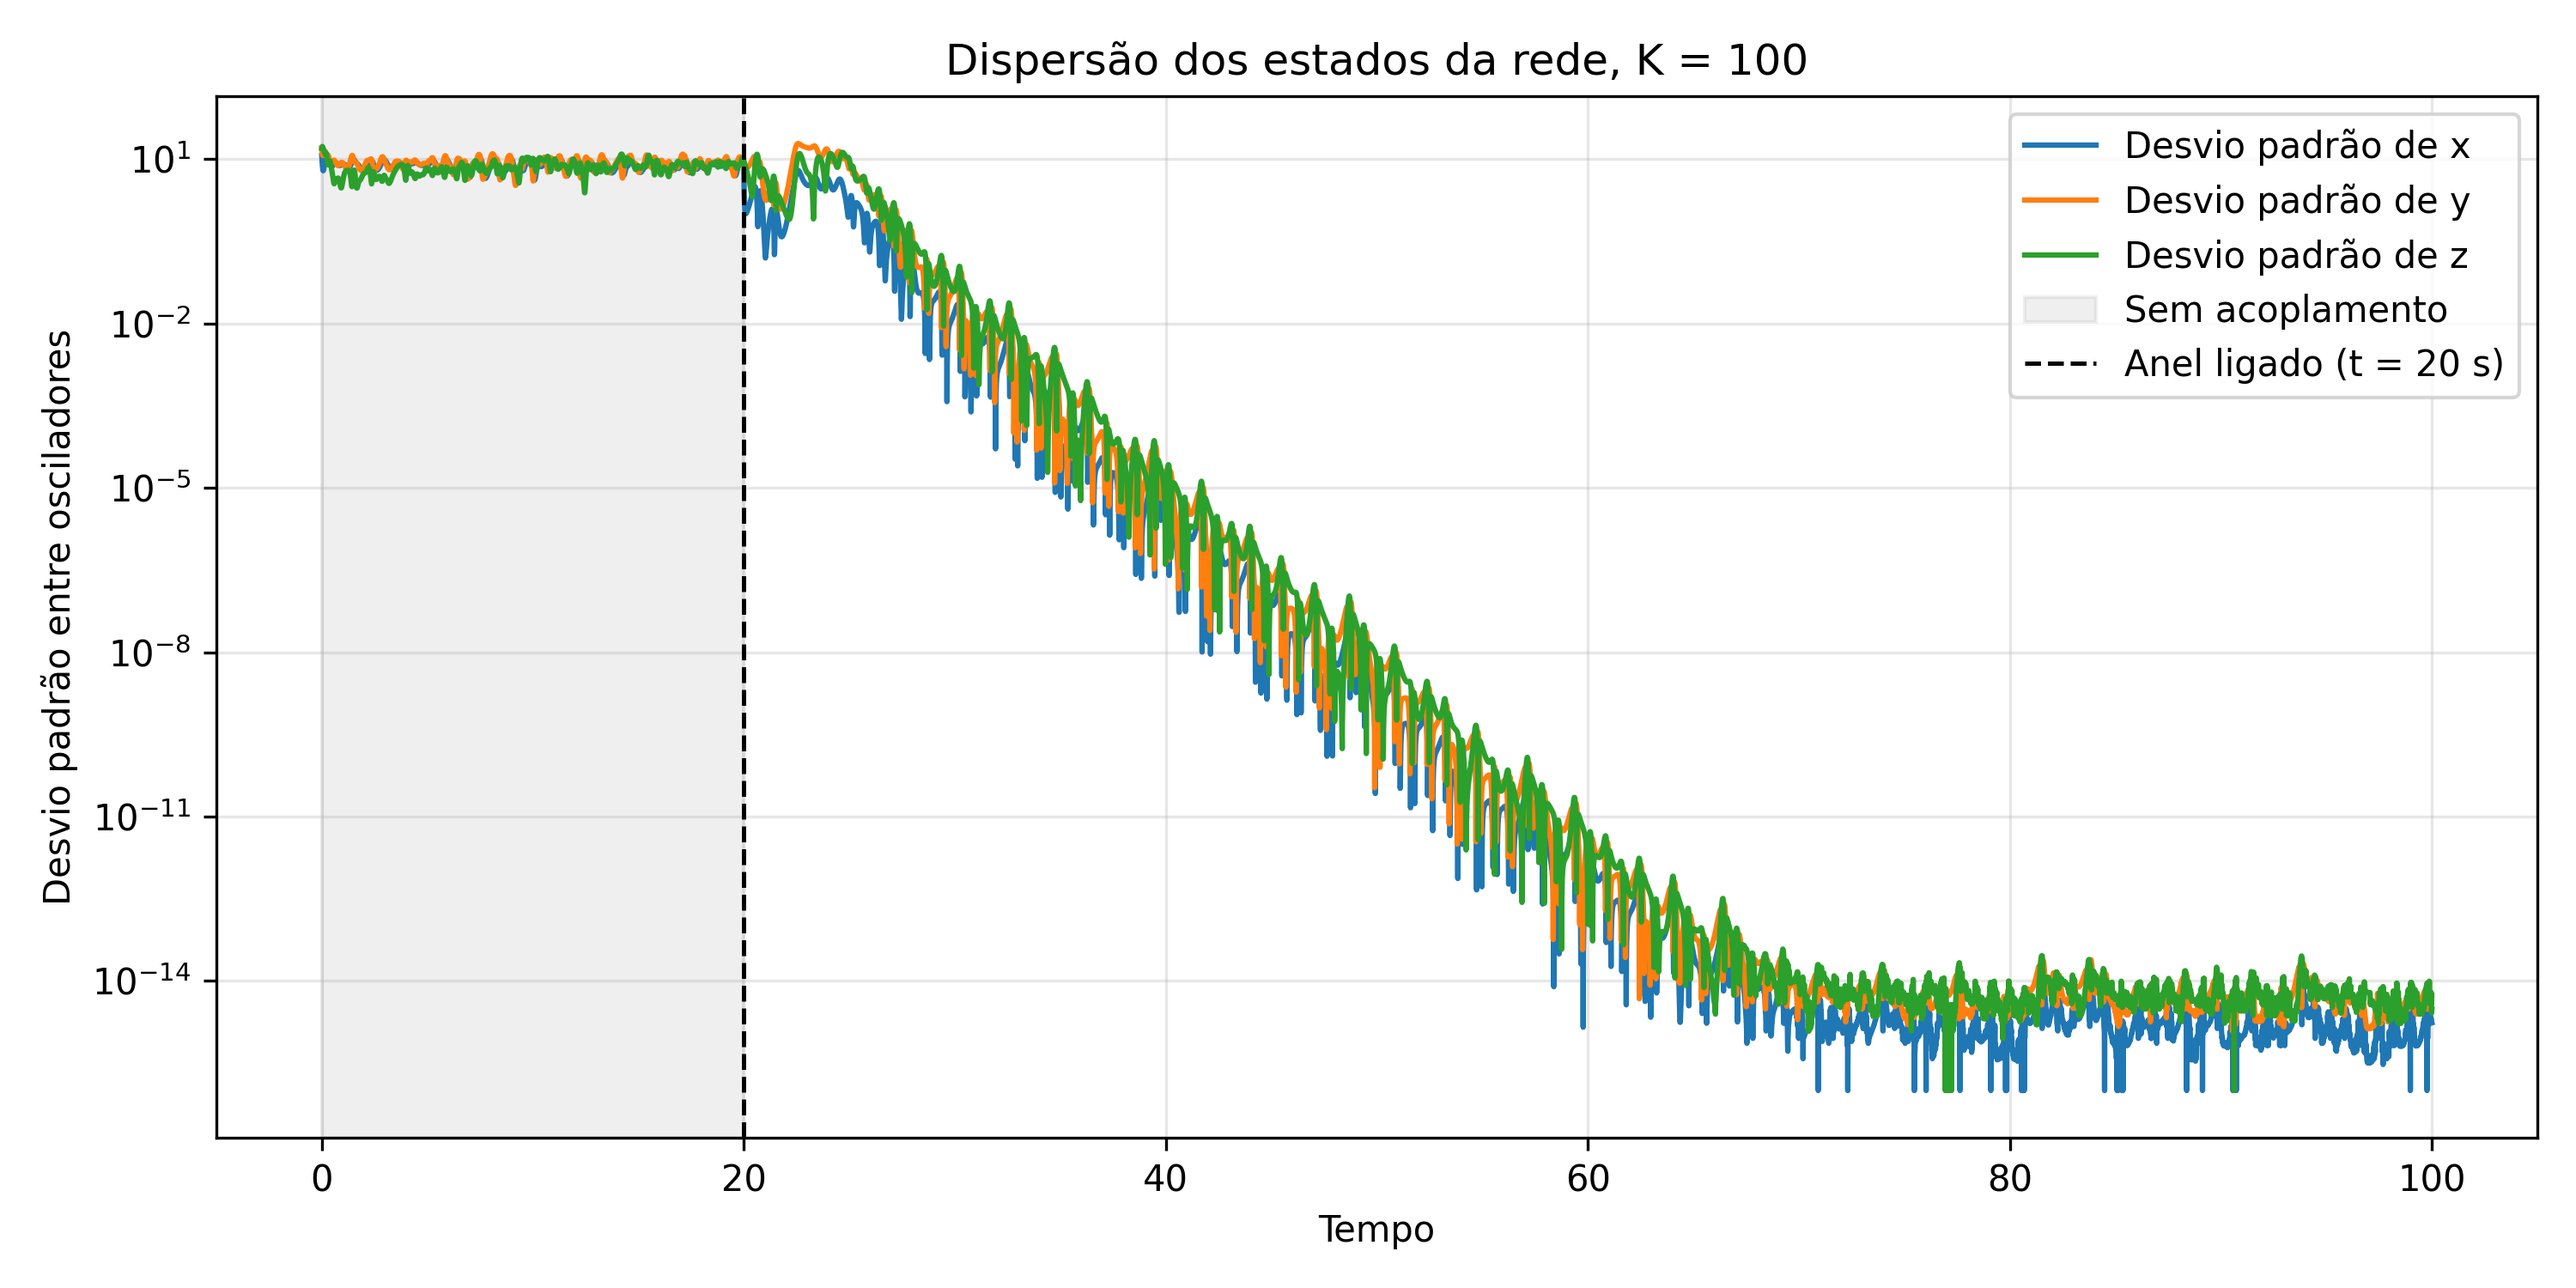
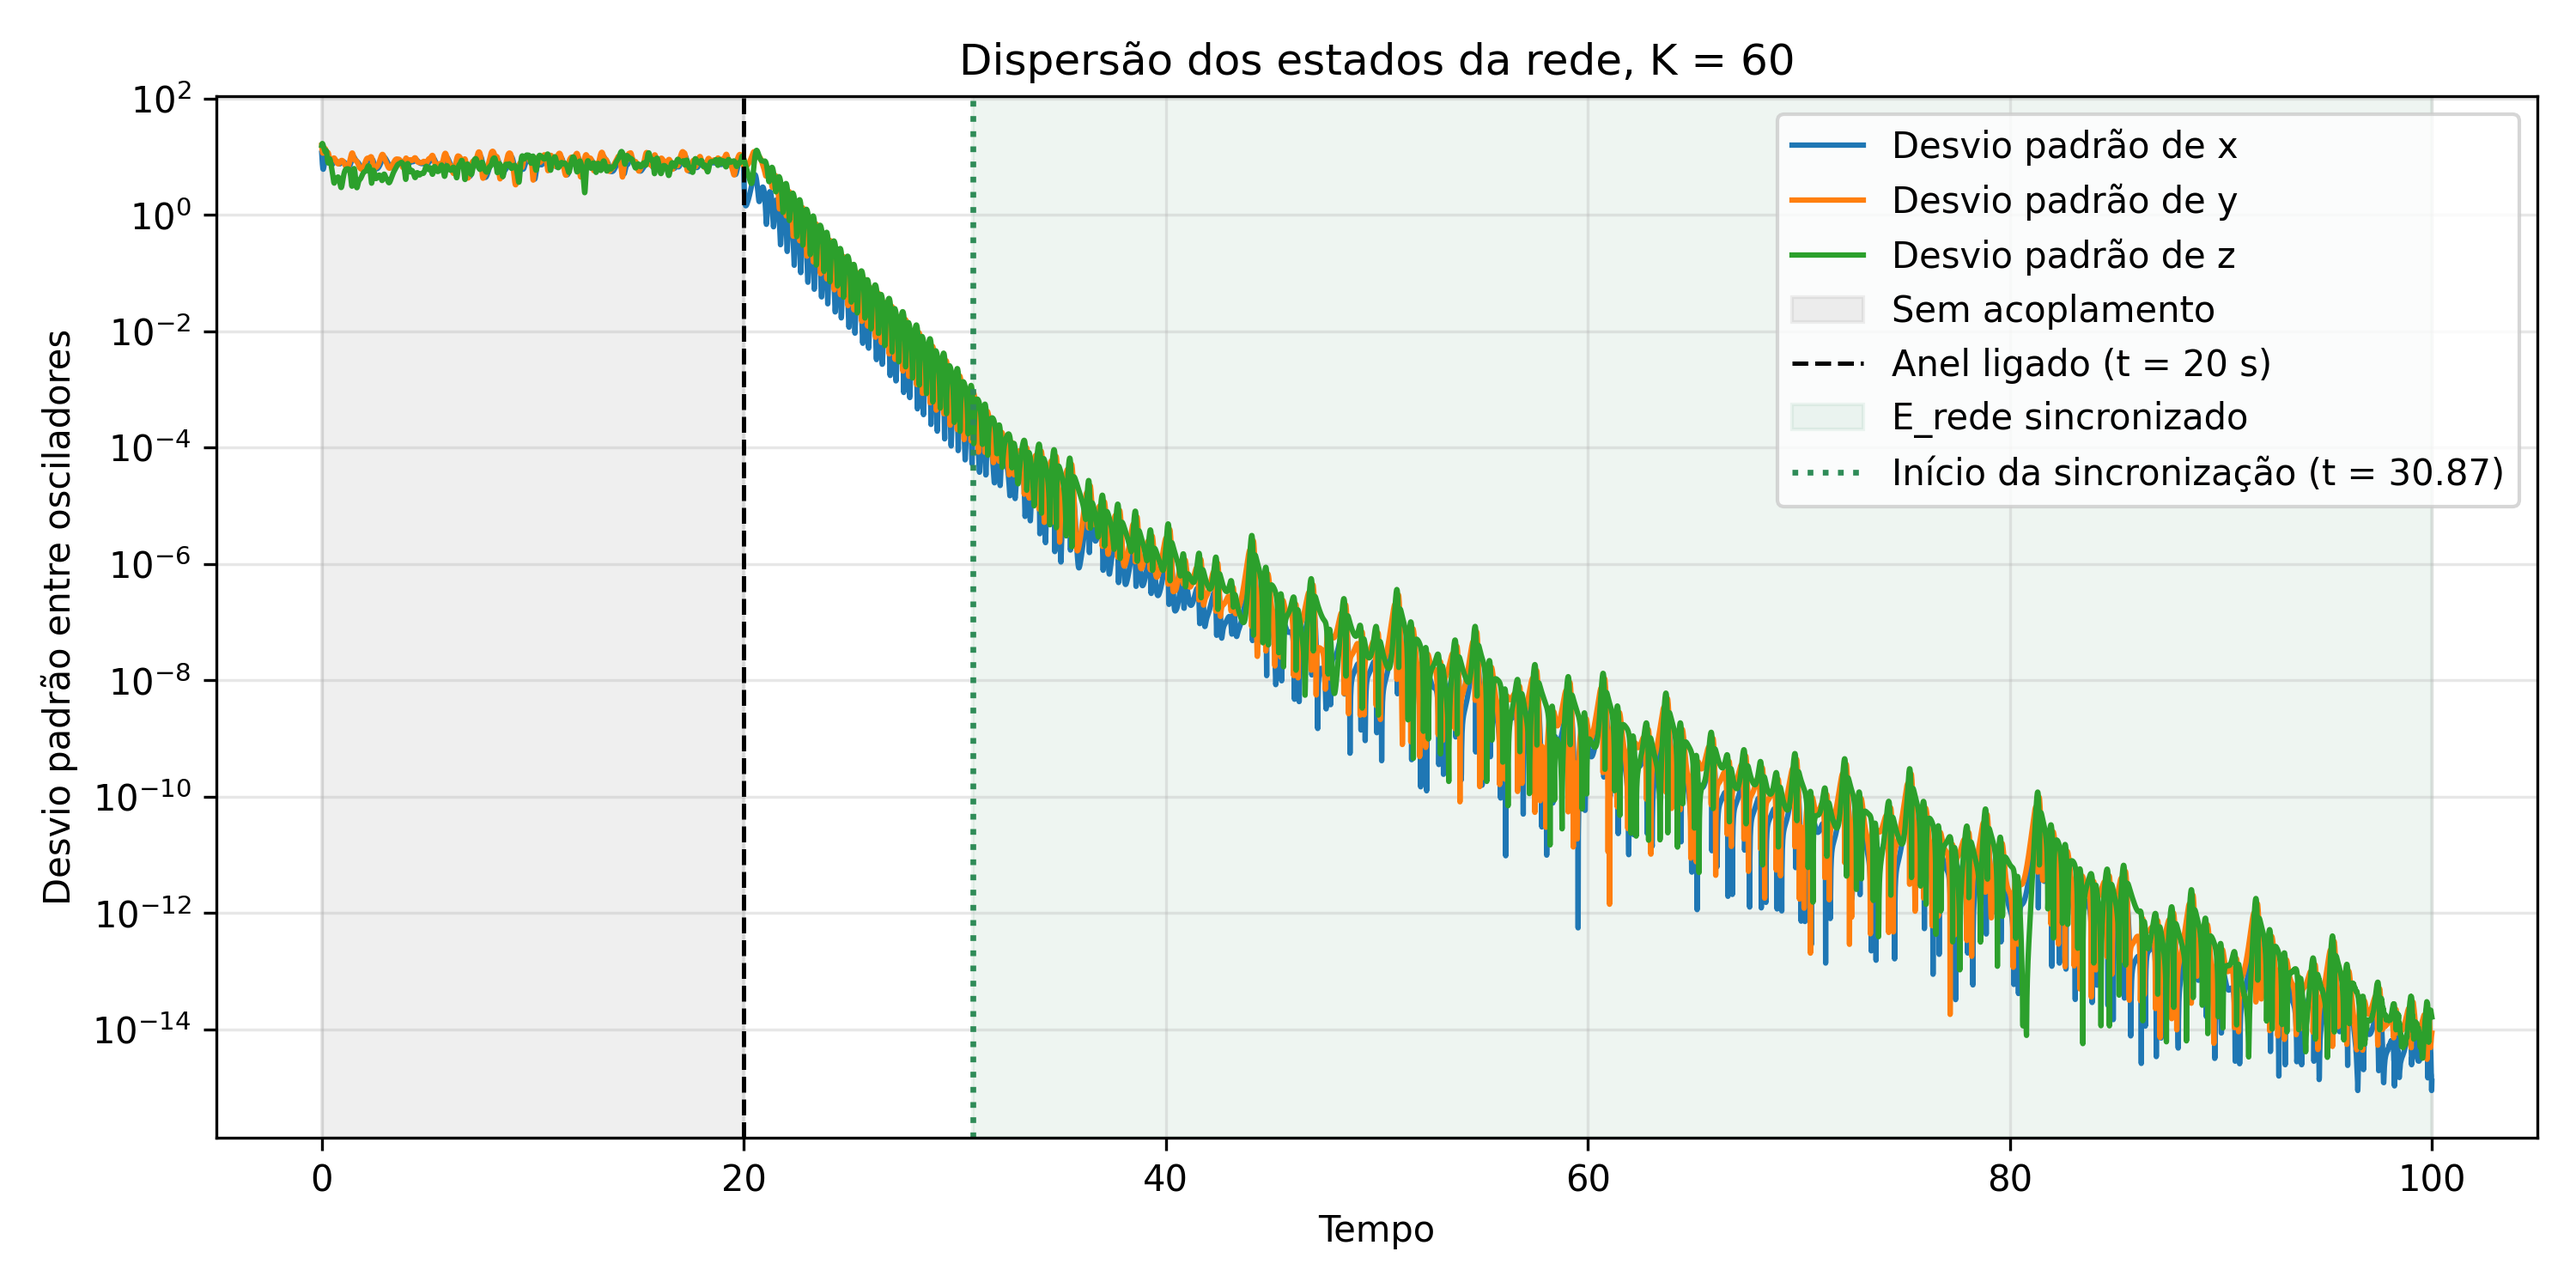
adicionar limiar no anel

diff --git a/scripts/gerar/sincronização/sincronizacao_rede_lorenz_anel.py b/scripts/gerar/sincronização/sincronizacao_rede_lorenz_anel.py
@@ -3,6 +3,7 @@ import matplotlib.pyplot as plt
 from scripts.caminhos import preparar_pasta_imagens
 from scripts.modelos.anel import (
     calcular_metricas_rede,
+    calcular_tempo_sincronizacao,
     lorenz_anel as calcular_derivadas_anel,
     simular_anel,
 )
@@ -30,6 +31,8 @@ t = np.arange(t_inicial, t_final + dt, dt)
 
 # Os sistemas evoluem separadamente até 20 s.
 tempo_ativacao_acoplamento = 20.0
+LIMIAR_SINCRONIZACAO = 1e-3
+PERMANENCIA_SINCRONIZACAO = 2.0
 
 # Força usada nos gráficos individuais.
 # O anel costuma exigir K maior do que o sistema com apenas dois Lorenz.
@@ -96,12 +99,56 @@ def marcar_ativacao():
     )
 
 
+def marcar_sincronizacao(tempo_sincronizacao):
+    """Destaca os instantes em que o erro global satisfaz o critério."""
+    if np.isnan(tempo_sincronizacao):
+        return
+
+    plt.axvspan(
+        tempo_sincronizacao,
+        t_final,
+        color="seagreen",
+        alpha=0.08,
+        label="E_rede sincronizado",
+    )
+    plt.axvline(
+        tempo_sincronizacao,
+        color="seagreen",
+        linestyle=":",
+        linewidth=1.6,
+        label=f"Início da sincronização (t = {tempo_sincronizacao:.2f})",
+    )
+
+
 # ============================================================
 # 5. SIMULAÇÃO PRINCIPAL
 # ============================================================
 
 tempo, estados = simular(K_exemplo)
 metricas = calcular_metricas_rede(estados)
+tempo_ate_sincronizacao = calcular_tempo_sincronizacao(
+    tempo,
+    metricas["erro_rede"],
+    tempo_ativacao_acoplamento,
+    dt,
+    limiar=LIMIAR_SINCRONIZACAO,
+    permanencia=PERMANENCIA_SINCRONIZACAO,
+)
+tempo_sincronizacao = (
+    np.nan
+    if np.isnan(tempo_ate_sincronizacao)
+    else tempo_ativacao_acoplamento + tempo_ate_sincronizacao
+)
+
+if np.isnan(tempo_sincronizacao):
+    print("O critério de sincronização da rede não foi atingido nesta simulação.")
+else:
+    print(
+        f"Rede sincronizada segundo o erro global em t = "
+        f"{tempo_sincronizacao:.2f}: E_rede(t) < "
+        f"{LIMIAR_SINCRONIZACAO:g} por pelo menos "
+        f"{PERMANENCIA_SINCRONIZACAO:g} unidades de tempo."
+    )
 
 x = estados[:, 0, :]
 y = estados[:, 1, :]
@@ -127,6 +174,7 @@ plt.plot(
 )
 
 marcar_ativacao()
+marcar_sincronizacao(tempo_sincronizacao)
 plt.xlabel("Tempo")
 plt.ylabel("x")
 plt.title(f"Séries temporais dos {N} Lorenz em anel, K = {K_exemplo:g}")
@@ -146,12 +194,20 @@ plt.semilogy(tempo, metricas["erro_rede"] + 1e-16,
              label="Erro em relação à média")
 plt.semilogy(tempo, metricas["erro_vizinhos"] + 1e-16,
              label="Erro entre vizinhos", alpha=0.8)
+plt.axhline(
+    LIMIAR_SINCRONIZACAO,
+    color="firebrick",
+    linestyle="--",
+    linewidth=1.2,
+    label=f"Limiar E_rede = {LIMIAR_SINCRONIZACAO:g}",
+)
 marcar_ativacao()
+marcar_sincronizacao(tempo_sincronizacao)
 plt.xlabel("Tempo")
 plt.ylabel("Erro de sincronização")
 plt.title(f"Sincronização global do anel, K = {K_exemplo:g}")
 plt.grid(alpha=0.3, which="both")
-plt.legend()
+plt.legend(loc="lower left", fontsize=9)
 plt.tight_layout()
 plt.savefig(PASTA_IMAGENS / "erro_global_anel.png", dpi=300)
 plt.show()
@@ -166,6 +222,7 @@ plt.semilogy(tempo, metricas["desvio_x"] + 1e-16, label="Desvio padrão de x")
 plt.semilogy(tempo, metricas["desvio_y"] + 1e-16, label="Desvio padrão de y")
 plt.semilogy(tempo, metricas["desvio_z"] + 1e-16, label="Desvio padrão de z")
 marcar_ativacao()
+marcar_sincronizacao(tempo_sincronizacao)
 plt.xlabel("Tempo")
 plt.ylabel("Desvio padrão entre osciladores")
 plt.title(f"Dispersão dos estados da rede, K = {K_exemplo:g}")
@@ -192,9 +249,19 @@ plt.axvline(
     tempo_ativacao_acoplamento,
     color="black",
     linestyle="--",
-    linewidth=1.2
+    linewidth=1.2,
+    label=f"Anel ligado (t = {tempo_ativacao_acoplamento:g})",
 )
+if not np.isnan(tempo_sincronizacao):
+    plt.axvline(
+        tempo_sincronizacao,
+        color="seagreen",
+        linestyle=":",
+        linewidth=1.6,
+        label=f"Sincronização (t = {tempo_sincronizacao:.2f})",
+    )
 plt.colorbar(imagem, label="Valor de x")
+plt.legend()
 plt.xlabel("Tempo")
 plt.ylabel("Oscilador")
 plt.yticks(np.arange(1, N + 1))

diff --git a/scripts/gerar/sincronização/figuras_acoplamento_unilateral_ativacao_tardia.py b/scripts/gerar/sincronização/figuras_acoplamento_unilateral_ativacao_tardia.py
@@ -124,7 +124,7 @@ def marcar_sincronizacao(tempo_sincronizacao):
 # ============================================================
 
 # K = 10 mostra a convergência após a ativação do acoplamento.
-K = 10.0
+K = 5.0
 
 tempo, x1, y1, z1, x2, y2, z2 = simular(K)
 
@@ -214,7 +214,7 @@ marcar_sincronizacao(tempo_sincronizacao)
 
 plt.xlabel("Tempo")
 plt.ylabel("Erro global E(t) (escala logarítmica)")
-plt.title(f"Erro global de sincronização após ativação tardia - K = {K}")
+plt.title(f"Erro global de sincronização - K = {K}")
 plt.legend()
 plt.grid(alpha=0.3)
 plt.savefig(PASTA_IMAGENS / f"erros_globais_K_{K}.png", dpi=300)

diff --git a/README.md b/README.md
@@ -44,7 +44,9 @@ python -m scripts.gerar.sincronização.varredura_sincronizacao_rede_lorenz_anel
 - `figuras_acoplamento_unilateral_sem_ativacao`: figuras de uma simulação com
   o acoplamento ligado desde o início.
 - `sincronizacao_rede_lorenz_anel`: figuras de uma simulação da rede de Lorenz
-  em anel.
+  em anel. Os gráficos temporais indicam quando o erro global permanece
+  abaixo de `1e-3` por pelo menos `2` unidades de tempo; no exemplo com
+  `K = 60`, isso ocorre em `t = 30.87`.
 - `varredura_acoplamento_unilateral_ativacao_tardia`: varredura de K para os
   dois sistemas com ativação tardia do acoplamento.
 - `varredura_acoplamento_unilateral_sem_ativacao`: varredura de K com o
